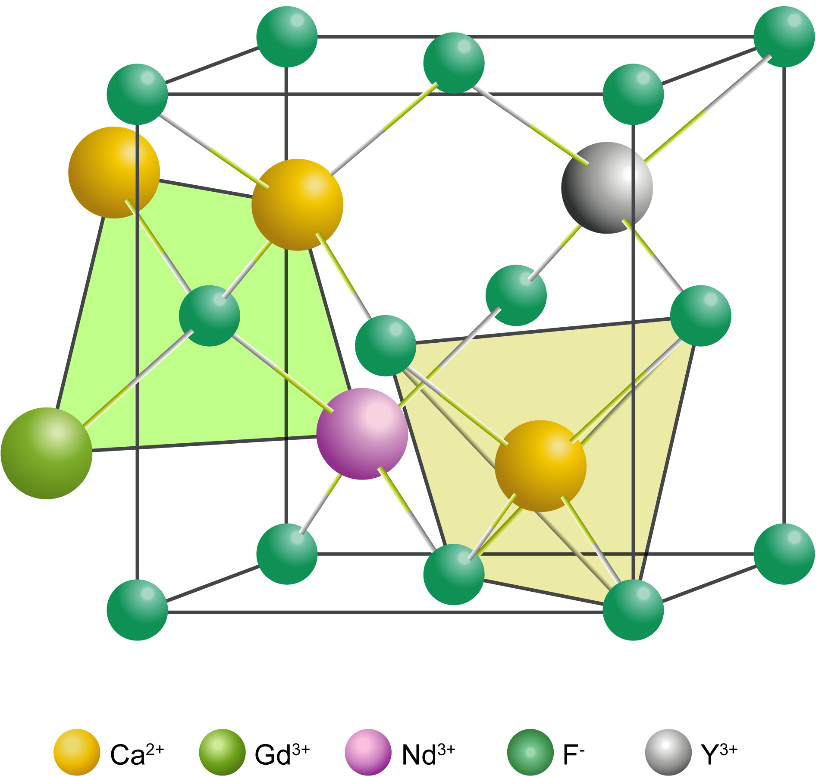
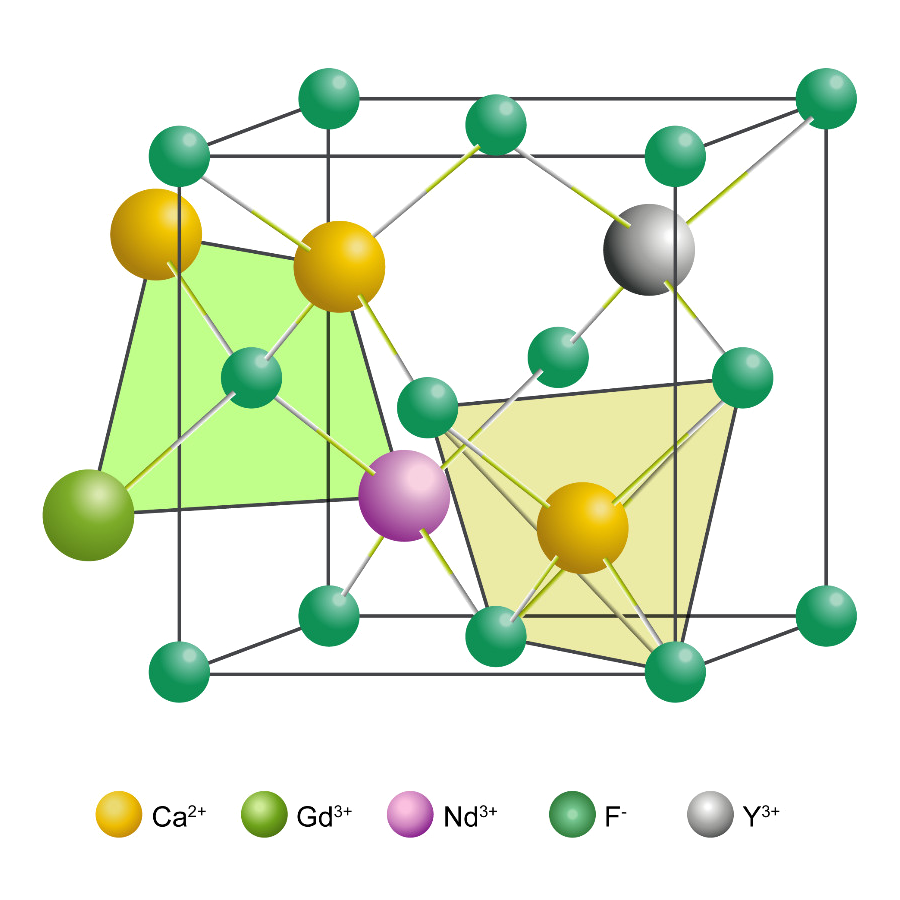
#

diff --git a/Activities.html b/Activities.html
@@ -124,8 +124,8 @@ borders: top right bottom left !important
                     </ol>
                     <div class="u-carousel-inner u-gallery-inner u-gallery-inner-1" role="listbox">
                       <div class="u-active u-carousel-item u-gallery-item u-carousel-item-1" data-image-width="584" data-image-height="827" data-href="Publications.html" data-page-id="289103242">
-                        <div class="u-back-slide" data-image-width="816" data-image-height="776">
-                          <img class="u-back-image u-expanded u-image-contain" src="images/Paper-2022-Yu-Figure1noBG.png">
+                        <div class="u-back-slide" data-image-width="1000" data-image-height="1000">
+                          <img class="u-back-image u-expanded u-image-contain" src="images/Paper-2022-Yu-Figure1noBG2.png">
                         </div>
                         <div class="u-align-center u-over-slide u-shading u-valign-bottom u-over-slide-1">
                           <h3 class="u-gallery-heading" style="width: 225px; margin-right: auto; margin-left: auto;"></h3>
@@ -215,8 +215,8 @@ c6.177,6.18,9.262,14.271,9.262,22.366C354.708,234.018,351.617,242.115,345.441,24
                     </ol>
                     <div class="u-carousel-inner u-gallery-inner u-gallery-inner-1" role="listbox">
                       <div class="u-active u-carousel-item u-gallery-item u-carousel-item-1" data-image-width="584" data-image-height="827" data-href="Publications.html" data-page-id="289103242">
-                        <div class="u-back-slide" data-image-width="264" data-image-height="256">
-                          <img class="u-back-image u-expanded u-image-contain" src="images/Graphical_Abstract21.png">
+                        <div class="u-back-slide" data-image-width="375" data-image-height="375">
+                          <img class="u-back-image u-expanded u-image-contain" src="images/Graphical_Abstract2.png">
                         </div>
                         <div class="u-align-center u-over-slide u-shading u-valign-bottom u-over-slide-1">
                           <h3 class="u-gallery-heading" style="width: 225px; margin-right: auto; margin-left: auto;"></h3>

diff --git a/index.html b/index.html
@@ -124,8 +124,8 @@ borders: top right bottom left !important
                     </ol>
                     <div class="u-carousel-inner u-gallery-inner u-gallery-inner-1" role="listbox">
                       <div class="u-active u-carousel-item u-gallery-item u-carousel-item-1" data-image-width="584" data-image-height="827" data-href="Publications.html" data-page-id="289103242">
-                        <div class="u-back-slide" data-image-width="816" data-image-height="776">
-                          <img class="u-back-image u-expanded u-image-contain" src="images/Paper-2022-Yu-Figure1noBG.png">
+                        <div class="u-back-slide" data-image-width="1000" data-image-height="1000">
+                          <img class="u-back-image u-expanded u-image-contain" src="images/Paper-2022-Yu-Figure1noBG2.png">
                         </div>
                         <div class="u-align-center u-over-slide u-shading u-valign-bottom u-over-slide-1">
                           <h3 class="u-gallery-heading" style="width: 225px; margin-right: auto; margin-left: auto;"></h3>
@@ -215,8 +215,8 @@ c6.177,6.18,9.262,14.271,9.262,22.366C354.708,234.018,351.617,242.115,345.441,24
                     </ol>
                     <div class="u-carousel-inner u-gallery-inner u-gallery-inner-1" role="listbox">
                       <div class="u-active u-carousel-item u-gallery-item u-carousel-item-1" data-image-width="584" data-image-height="827" data-href="Publications.html" data-page-id="289103242">
-                        <div class="u-back-slide" data-image-width="264" data-image-height="256">
-                          <img class="u-back-image u-expanded u-image-contain" src="images/Graphical_Abstract21.png">
+                        <div class="u-back-slide" data-image-width="375" data-image-height="375">
+                          <img class="u-back-image u-expanded u-image-contain" src="images/Graphical_Abstract2.png">
                         </div>
                         <div class="u-align-center u-over-slide u-shading u-valign-bottom u-over-slide-1">
                           <h3 class="u-gallery-heading" style="width: 225px; margin-right: auto; margin-left: auto;"></h3>
